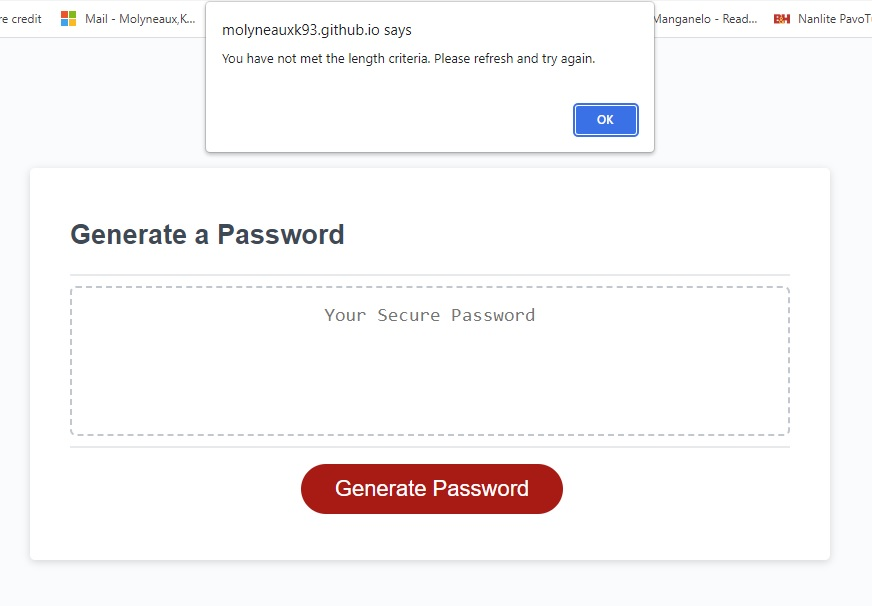
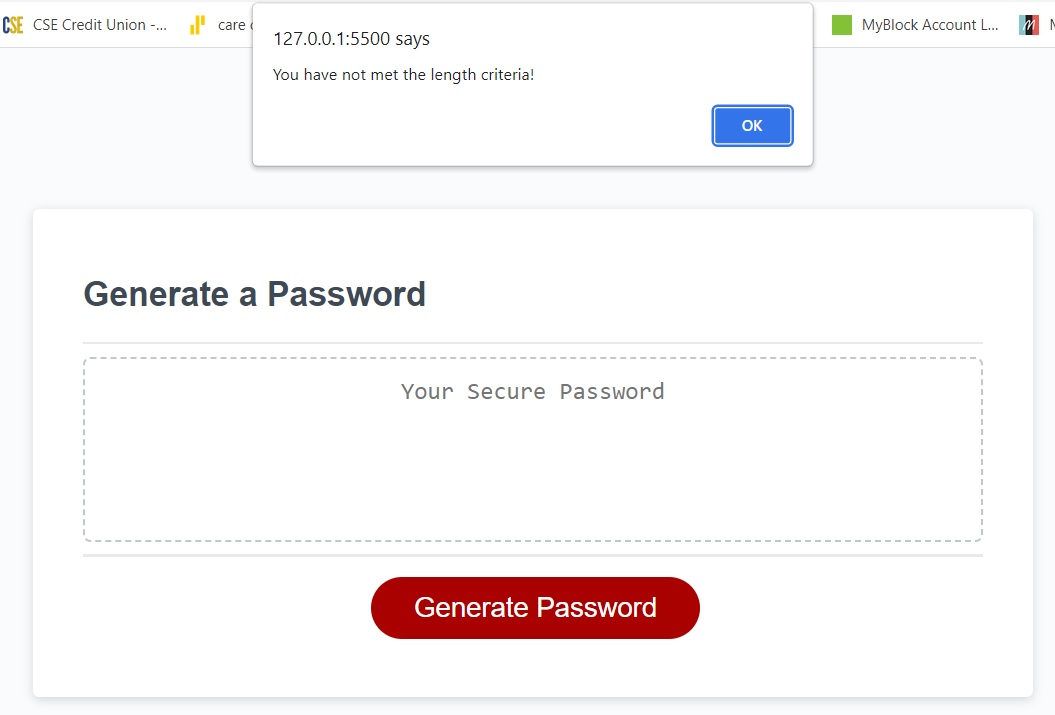
Updating readme, Javascript, and images

diff --git a/script.js b/script.js
@@ -9,6 +9,7 @@ function generatePassword() {
   var specialChars = ['!', '"', '#', '$', '%', '&', "'", '(', ')', '*', '+', ',', '-', '.', '/', ':', ';', '<', '=', '>', '?', '@', '[', "]"];
   var criteria = [];
   var numeric = [0, 1, 2, 3, 4, 5, 6, 7, 8, 9];
+  var returnmsg = "Click 'Generate Pasword' button and try again";
 
   //this array exists to ensure when random characters are being selected from the criteria, all required character types will always appear in the finalPassword
   var guaranteeChars = [];
@@ -21,9 +22,9 @@ function generatePassword() {
   if (passwordLength >= 8 && passwordLength <= 128) {
     console.log("You have met the length criteria");
   } else {
-    //outputs alert if requirement not met and ends function
-    alert("You have not met the length criteria. Please refresh and try again.");
-    return;
+    //outputs alert if requirement not met and returns message "Please try again"
+    alert("You have not met the length criteria!");
+    return returnmsg;
   }
 
   // Gather users desired character types to be included 
@@ -39,9 +40,9 @@ function generatePassword() {
   if (passwordUpperCase === true || passwordLowerCase === true || passwordNumeric === true || passwordSpecial === true) {
     console.log("You have selected at least one of the character types.")
   } else {
-    //outputs alert if requirement not met and ends function
-    alert("You must select at least one character type! Refresh page and try again.");
-    return;
+    //outputs alert if requirement not met and and returns message "Please try again"
+    alert("You must select at least one character type!");
+    return returnmsg;
   }
 
   // If user selected uppercase characters to be included, we push a random uppercase character to guaranteed characters array, and add the uppercase string to the critera

diff --git a/README.md b/README.md
@@ -57,3 +57,7 @@ The following shows alert to user if specified character length is less than 8 o
 The following shows alert to user if no character types are selected. At least one must be selected: 
 
 ![alt text](images/characterTypeAlert.jpg) 
+
+The following shows the message returned to the textbox on the screen once an alert is acknowledged: 
+
+![alt text](images/AlertAcknlowedged.jpg) 
